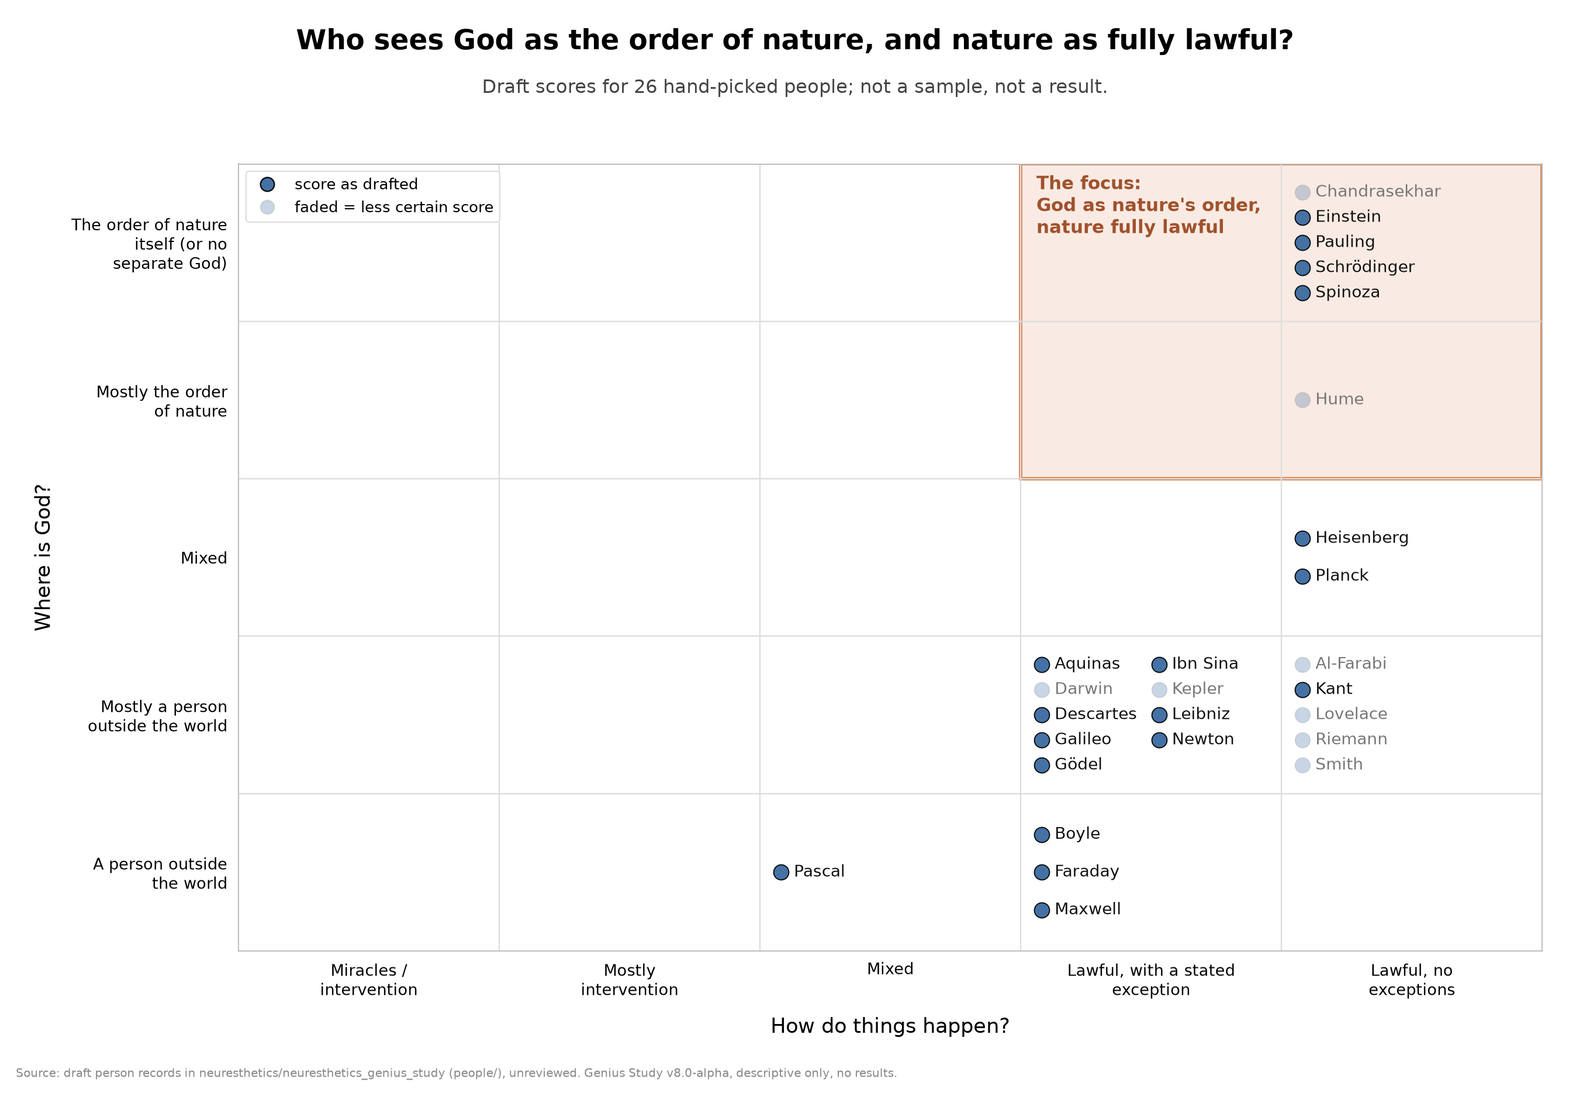
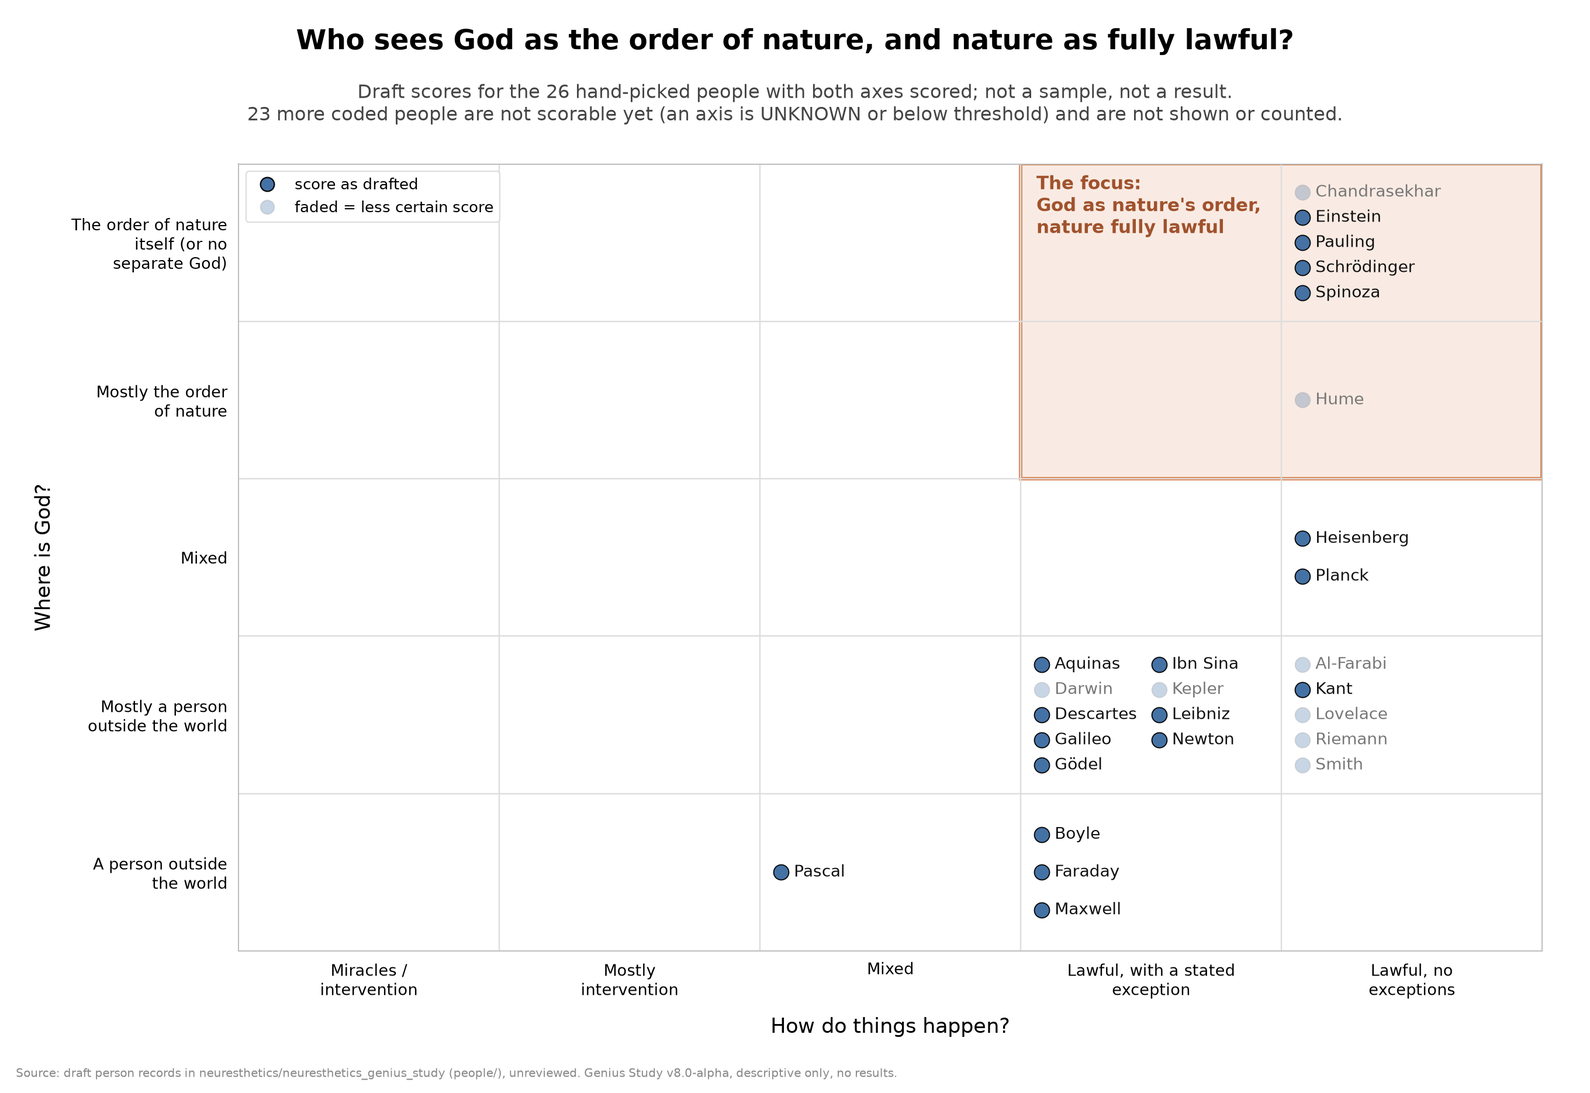
Leave unscorable people out of every chart denominator (P34, Jason)
The person chart caption and subtitle now count only people with both axes scored, the focus box is counted among people at certainty >= 0.7 on both axes, and the 23 not-scorable people are reported separately with which axis is missing.

Changed region(s): [[0.1562, 0.062, 0.8438, 0.1241]]

diff --git a/scripts/lib/records.py b/scripts/lib/records.py
@@ -1,5 +1,5 @@
 """Shared helpers for person and system records: front-matter parsing, schema checks, claim walking."""
-import csv, json, os, re
+import collections, csv, json, os, re
 
 import yaml
 from jsonschema import Draft202012Validator
@@ -185,23 +185,44 @@ def system_files():
 
 
 def people_axis_points():
-    """The person records that have both A_locus and B_cause scored (integers), for the person chart and its
-    README caption. Returns (points, n_files). Each point is a dict with name, A, B, their certainties and
-    interview flags, and mid_basin. Shared by scripts/make_figures.py and scripts/progress_status.py."""
-    pts, n = [], 0
+    """Split the person records for the person chart and its README caption.
+
+    Returns (points, not_scorable). points are the records with both A_locus and B_cause scored (integers);
+    they are the plotted base. not_scorable are the other records, each a dict with name and reason; they are
+    left out of every denominator and reported separately (DECIDED (Jason, 2026-10-08), OPEN_DECISIONS P34).
+    Each point is a dict with name, A, B, their certainties and interview flags, and mid_basin.
+    Shared by scripts/make_figures.py and scripts/progress_status.py."""
+    pts, out = [], []
     for f in person_files():
         d, _ = read_record(f)
-        n += 1
         lio = d["worldview"]["lio_axes"]
         a, b = lio["A_locus"], lio["B_cause"]
-        if not (isinstance(a.get("value"), int) and isinstance(b.get("value"), int)):
+        okA, okB = isinstance(a.get("value"), int), isinstance(b.get("value"), int)
+        if not (okA and okB):
+            reason = "both axes" if not (okA or okB) else ("A_locus" if not okA else "B_cause")
+            out.append({"name": d["identity"]["display_name"], "reason": reason,
+                        "A": a.get("value"), "B": b.get("value")})
             continue
         mb = d["worldview"].get("mid_basin") or {}
         pts.append({"name": d["identity"]["display_name"], "A": a["value"], "B": b["value"],
                     "cA": a.get("certainty"), "cB": b.get("certainty"),
                     "iA": is_interview(a), "iB": is_interview(b),
                     "mid_basin": mb.get("value") if isinstance(mb, dict) else mb})
-    return pts, n
+    return pts, out
+
+
+def not_scorable_summary(out):
+    """Plain-words breakdown of the people left out of the chart base, e.g.
+    '17 with no A_locus score, 3 with no B_cause score, 3 with neither'."""
+    c = collections.Counter(p["reason"] for p in out)
+    parts = []
+    if c["A_locus"]:
+        parts.append(f"{c['A_locus']} with no A_locus score")
+    if c["B_cause"]:
+        parts.append(f"{c['B_cause']} with no B_cause score")
+    if c["both axes"]:
+        parts.append(f"{c['both axes']} with neither")
+    return ", ".join(parts)
 
 
 # The region drawn on the person chart: the study focus, the LIO pole on both axes.
@@ -219,14 +240,18 @@ def firm(p):
 
 
 def focus_counts(pts):
-    """(firm, plotted) for the study-focus region: firm = both axes at certainty >= 0.7."""
-    ps = [p for p in pts if in_focus(p)]
-    return sum(1 for p in ps if firm(p)), len(ps)
+    """(in_box, base, faded_in_box). The base is the plotted people at certainty >= 0.7 on both axes; in_box
+    is those of them in the study-focus region. faded_in_box are plotted in the region below 0.7 on at least
+    one axis; they are outside the base and not counted."""
+    base = [p for p in pts if firm(p)]
+    return (sum(1 for p in base if in_focus(p)), len(base),
+            sum(1 for p in pts if in_focus(p) and not firm(p)))
 
 
 def people_chart_caption():
-    """README caption for figures/people_cause_locus.png, computed from the records."""
-    pts, n = people_axis_points()
+    """README caption for figures/people_cause_locus.png, computed from the records. Every count uses only the
+    people scorable for it; the rest are reported as not scorable yet (OPEN_DECISIONS P34)."""
+    pts, out = people_axis_points()
     bs = sorted({p["B"] for p in pts})
     if not bs:
         brange = "no person has both axes scored"
@@ -234,17 +259,22 @@ def people_chart_caption():
         brange = f"every plotted person is B_cause {bs[0]}"
     else:
         brange = ("every plotted person is B_cause " + ", ".join(map(str, bs[:-1])) + f" or {bs[-1]}")
-    ff, fn = focus_counts(pts)
+    fi, fb, ff = focus_counts(pts)
     # Left two columns are B_cause 0 and 1. Mention them only when the plotted records leave them empty.
     left = ""
     if pts and all(p["B"] >= 2 for p in pts):
-        left = (" Nobody coded so far scores in the left two columns "
+        left = (" Nobody plotted scores in the left two columns "
                 "(miracles or intervention, or mostly intervention).")
+    faded = (f" {ff} more {'is' if ff == 1 else 'are'} plotted in the box at lower certainty and "
+             f"{'is' if ff == 1 else 'are'} not counted.") if ff else ""
+    ns = (f" **Not scorable yet:** {len(out)} coded {'person lacks' if len(out) == 1 else 'people lack'} a score on "
+          f"at least one axis ({not_scorable_summary(out)}; the value is UNKNOWN or BELOW_THRESHOLD). They are not "
+          f"plotted and are left out of every count here, not counted as outside the box.") if out else ""
     return (f"*Draft person scores: where God is (up the chart) against how things happen (across the chart). "
             f"The shaded top-right box is the only region marked: the study focus, God as the order of nature "
-            f"and nature as lawful (A_locus ≥ 3 and B_cause ≥ 3). {ff} people are in it at certainty "
-            f"≥ 0.7 on both axes ({fn} plotted there). Only records with both axes scored are plotted "
-            f"({len(pts)} of the {n} coded people); {brange}.{left} These are unreviewed, hand-picked drafts, "
+            f"and nature as lawful (A_locus ≥ 3 and B_cause ≥ 3). Plotted: the {len(pts)} coded people with both "
+            f"axes scored; {brange}.{left} Focus count: {fi} of the {fb} people scored at certainty ≥ 0.7 on both "
+            f"axes are in the box (the base is those {fb}).{faded}{ns} These are unreviewed, hand-picked drafts, "
             f"not a sample, and there is no base rate, so no over- or under-representation claim can be made "
             f"from them. Each surname sits next to its dot. A faded dot is a less certain score "
             f"(below 0.7 on at least one axis).*")

diff --git a/scripts/make_figures.py b/scripts/make_figures.py
@@ -157,7 +157,7 @@ def fig_people_cause_locus(out):
     def short(name):
         return short_names.get(name, name.split()[-1])
 
-    pts, _ = people_axis_points()
+    pts, not_scorable = people_axis_points()
     cells = collections.defaultdict(list)
     for p in pts:
         cells[(p["B"], p["A"])].append(p)
@@ -206,8 +206,10 @@ def fig_people_cause_locus(out):
 
     fig.text(0.5, 0.955, "Who sees God as the order of nature, and nature as fully lawful?",
              ha="center", fontsize=20, fontweight="bold")
-    fig.text(0.5, 0.915, f"Draft scores for {len(pts)} hand-picked people; not a sample, not a result.",
-             ha="center", fontsize=13.5, color="#444444")
+    fig.text(0.5, 0.925, f"Draft scores for the {len(pts)} hand-picked people with both axes scored; not a sample, not a result."
+             + (f"\n{len(not_scorable)} more coded people are not scorable yet (an axis is UNKNOWN or below threshold) "
+                "and are not shown or counted." if not_scorable else ""),
+             ha="center", va="top", fontsize=13.5, color="#444444")
     leg = [Line2D([0], [0], marker="o", ls="", markersize=10, markerfacecolor=dot, markeredgecolor="black", alpha=0.95),
            Line2D([0], [0], marker="o", ls="", markersize=10, markerfacecolor=dot, markeredgecolor="#999999", alpha=0.28)]
     ax.legend(leg, ["score as drafted", "faded = less certain score"], loc="upper left", fontsize=11,

diff --git a/docs/OPEN_DECISIONS.md b/docs/OPEN_DECISIONS.md
@@ -59,13 +59,14 @@ The 19 recommendations below were decided on 2026-10-01; P6 and P7, added later,
 | P31 | Continuity rule: the span dates the worldview being coded; evidence from any adult year counts at its normal certainty unless changes_over_life documents a change of view between the span and the evidence (then retrospective cap or changes_over_life); a change inside the span: code the phase with the most listed lasting contributions (tie to the later), the other phase in changes_over_life plus a coder_notes delta; childhood evidence stays off-point; replaces P29's out-of-span clause and P30 addendum e's posthumous restriction; a change splits the span only if it bears on primary_system or A–E (Newton ruling), phases counted with P30 #1 dates | medium-high | DECIDED (v8's pick) 2026-10-02 (from the P30 span-alignment audit) |
 | P32 | Work order after the first 12 stage 3 records: finish the stage 2 leftovers (physical science 1600–1950, F ≥ 3), then everyone else with F ≥ 3 by F descending, then roster rank; no hand-picking | medium-high | DECIDED (v8's pick) 2026-10-08 (stage 3 batch C) |
 | P33 | Inventors and the scientist test (P30): a device or invention is not a theory or result about physical or natural systems; an inventor is a scientist only if a listed lasting contribution is a theory or result, otherwise B needs a statement about nature (P16) | medium | DECIDED (v8's pick) 2026-10-08 (stage 3 batch C, Bell) |
+| P34 | Denominators: people who can't be scored for an analysis are excluded from its denominator and reported separately as not scorable | high | DECIDED (Jason) 2026-10-08 |
 | S7 | System backlog: ATHE, AGNOS, IDEAL first; French spiritualism listed as a system to consider, no file | medium-high | decided 2026-10-02, v8's pick (added by the people run, batch 3) |
 
 **Decided 2026-10-01:** R1, R2, R3, R4, R5 and S2 were approved together as recommended. The other 13 were decided later the same day (10:55 PM PT): R6 with all 9 names core, Vint Cerf included; R7 with the six fixes; the rest as recommended. For P4, deists pass the test, and this is recorded as a stated consequence with no exclusion. Each item is under "Decided" with what changed.
 
 ## Open
 
-None. P8–P31 and S7 were decided on 2026-10-02, and P32–P33 on 2026-10-08; all are listed under "Decided".
+None. P8–P31 and S7 were decided on 2026-10-02, and P32–P34 on 2026-10-08; all are listed under "Decided".
 
 
 ## Decided
@@ -714,6 +715,14 @@ Process:
 - **Rule.** A device or invention is not a theory or result about physical or natural systems. An inventor counts as a scientist only if a listed lasting contribution is itself a theory or result. Otherwise B needs a statement of the person's own about nature (P16), as for any non-scientist.
 - **Why.** Building a working device shows the builder relied on regularities, but it does not state a view of nature's order, and nearly everyone relies on regularities. Counting devices would let B be scored from almost any practical work.
 - **Applied to:** Bell (telephone, photophone, graphophone): not a scientist; no statement about nature was found, so B is UNKNOWN. Lovelace (Notes on the Analytical Engine) is treated the same way. Effect: B for inventors is scored less often.
+
+### P34. Denominators: unscorable people are left out
+**DECIDED (Jason, 2026-10-08): people who can't be scored for an analysis are excluded from its denominator and reported separately as not scorable.**
+- **What counts as not scorable.** For the person chart: A_locus or B_cause is not a 0–4 score (`TODO`, `UNKNOWN` or `BELOW_THRESHOLD`). For any other test or share: a field the test needs is not scored. Such a person is not inside the analysis at all, so they are not counted as outside the focus box, or as failing the test.
+- **Focus count.** The focus box (A_locus ≥ 3 and B_cause ≥ 3) is counted only among people at certainty ≥ 0.7 on both axes, and the base is stated as those people. People plotted in the box at lower certainty are named as a separate number, not counted.
+- **Reporting.** The not-scorable people are given as a plain count, with which axis is missing, so they are visible and not hidden.
+- **Not an analysis.** Coding progress against the roster (e.g. people coded of core) and claim fill rates in reports/coverage.md are coverage figures, so they keep the full roster or claim count as the base.
+- **Where it is applied.** `people_axis_points`, `focus_counts` and `people_chart_caption` in `scripts/lib/records.py`, used by `scripts/make_figures.py` and `scripts/progress_status.py`.
 
 ### S1. CLTHEI display label
 **Decided 2026-10-01 by Jason (approved as recommended):** CLTHEI `display_label` is "Interventionist personal theism", `label_status` `approved`. The code and `v7_1_label` are unchanged.

diff --git a/README.md b/README.md
@@ -20,7 +20,7 @@ A study of where remembered genius sits on a scale of lawful, non-intervening or
 | Roster people | 1,380: 441 core, 33 provisional, 17 review, 889 new names still need a status |
 | People coded (of core) | 49 / 441 (draft, unreviewed) |
 | Belief systems sourced | 9 / 77 (the rest are stubs) |
-| Decisions settled | 48 / 48 |
+| Decisions settled | 49 / 49 |
 | Audits | 9 blind lens runs on four batches: 3 on a 115-claim packet (eff4700), 2 on a 147-claim packet (e648145), 2 on a 124-claim packet (d9903b7/43cecc4; fixes at 6f37cd6) and 2 on a 165-claim packet (b21655b; run 1 155 hold / 10 weaken, run 2 160 hold / 5 weaken, 0 wrong; agreement 156/165, κ 0.37; fixes applied at 3bcd59c); see [reports/audit_2026-10-02.md](reports/audit_2026-10-02.md). Stage 3: 4 blind runs on the first 12 records (stage 3-a: 561 claims at 59a8371; stage 3-b: 420 claims at 3db6511); their method rulings are decisions P14–P28; one blind run on the stage 3-b rulings (93 claims at 6155174: 88 hold, 4 weaken, 1 fail, fixed at 4c10399) gave P29; lens's runs on the v8.a rulings packet (34a73c4) and the v8.b P29 packet (e930597) gave P30; the P30 span-alignment audit (7a52a3f) gave P31 |
 | Latest tag | `v8.0-alpha` (prerelease) |
 | Next steps | Stage 3 (everyone else with F ≥ 3) has started: the first 12 records (Spinoza, Descartes, Pascal, Leibniz, Kant, Hume, Darwin, Gauss, Riemann, Turing, Noether, von Neumann) are drafts that still need to apply P29 and P30 (the stage 3-b six follow P14–P28 on main; the stage 3-a six also still need P14–P28); the other 31 records follow P14–P28 (schema 1.3) and P30's age rule, and their worldview.working_years now equals timing.major_work_period (P30 addendum); under P31 (continuity rule) all 55 values the span audit flagged stand; the strict-period alternative is in reports/period_rule_sensitivity.md; batch C (Wu, Lovelace, Smith, al-Farabi, al-Khwarizmi, Bell) is drafted in P32 order, next Archimedes, Aristotle, McClintock, Russell; batch C needs a blind lens run; source the stubs on the S7 backlog (ATHE, AGNOS, KANT, SCEPT, RATN, EMPIR, IDEAL); the revised rubric has not started |
@@ -44,7 +44,7 @@ These charts describe what is in the repo so far; they are not results. The rost
 ![Draft person scores: where God is against how things happen, with only the top-right study focus shaded](figures/people_cause_locus.png)
 
 <!-- BEGIN GENERATED: people_chart_caption -->
-*Draft person scores: where God is (up the chart) against how things happen (across the chart). The shaded top-right box is the only region marked: the study focus, God as the order of nature and nature as lawful (A_locus ≥ 3 and B_cause ≥ 3). 4 people are in it at certainty ≥ 0.7 on both axes (6 plotted there). Only records with both axes scored are plotted (26 of the 49 coded people); every plotted person is B_cause 2, 3 or 4. Nobody coded so far scores in the left two columns (miracles or intervention, or mostly intervention). These are unreviewed, hand-picked drafts, not a sample, and there is no base rate, so no over- or under-representation claim can be made from them. Each surname sits next to its dot. A faded dot is a less certain score (below 0.7 on at least one axis).*
+*Draft person scores: where God is (up the chart) against how things happen (across the chart). The shaded top-right box is the only region marked: the study focus, God as the order of nature and nature as lawful (A_locus ≥ 3 and B_cause ≥ 3). Plotted: the 26 coded people with both axes scored; every plotted person is B_cause 2, 3 or 4. Nobody plotted scores in the left two columns (miracles or intervention, or mostly intervention). Focus count: 4 of the 18 people scored at certainty ≥ 0.7 on both axes are in the box (the base is those 18). 2 more are plotted in the box at lower certainty and are not counted. **Not scorable yet:** 23 coded people lack a score on at least one axis (17 with no A_locus score, 2 with no B_cause score, 4 with neither; the value is UNKNOWN or BELOW_THRESHOLD). They are not plotted and are left out of every count here, not counted as outside the box. These are unreviewed, hand-picked drafts, not a sample, and there is no base rate, so no over- or under-representation claim can be made from them. Each surname sits next to its dot. A faded dot is a less certain score (below 0.7 on at least one axis).*
 <!-- END GENERATED: people_chart_caption -->
 
 ![The nine sourced belief-system drafts on the v8 LIO axes](figures/systems_axes.png)

diff --git a/docs/METHOD.md b/docs/METHOD.md
@@ -20,6 +20,7 @@ The study has two lanes, carried over from v7.1:
 - **Mid-basin (P4).** v7.1 names "mid-basin theists" and a first pool (Faraday, Maxwell, Newton, Aquinas, Ibn Sina, Gödel) but gives no membership test. v8's test uses the axis scores only. `mid_basin` is true when A_locus ≤ 1 (God is a transcendent person, not the world) and B_cause ≥ 3 (law and regularity, no special cases), with B scored on the person's account of nature (decision P6, 2026-10-02; B needs a statement about nature or the physical world, so pure-mathematics Platonism alone gives `BELOW_THRESHOLD`, P16; a scientist, meaning anyone with a listed lasting contribution that is a theory or result about physical or natural systems, can be scored on working science at 0.5, P24 and P30) and both at certainty ≥ 0.7. When the value and every named alternative meet the condition (B 3 with alternative B 4), the certainty used is that of the evidence for the condition, not of the exact value (P30). It is false when A_locus ≥ 3, or A_locus ≤ 1 with B_cause ≤ 1. Otherwise: `TODO` with a note if a needed axis is still `TODO`, or if both axes are scored at certainty ≥ 0.7 but the result falls between the branches (A_locus = 2, or A_locus ≤ 1 with B_cause = 2), since the test has no branch for it; `UNKNOWN` if any needed axis is `UNKNOWN` (the sources read say nothing on it; this takes precedence, P19); otherwise `BELOW_THRESHOLD` if a needed axis is `BELOW_THRESHOLD` or is scored only at 0.5, under the test's 0.7 bar (say which in the note). For a theologian or philosopher, miracles and grace count against B only where they reach into their account of the natural order; a theology-wide reading, if different, is recorded in the B rationale. "First-rank" is applied separately, as F ≥ 3. v7.1's "certainty ≥ 0.6" means ≥ 0.7 on a scale of 1.0 / 0.7 / 0.5.
   - **Stated consequence: deists pass.** A deist God is a transcendent person (A low) who does not intervene (B high), so DEISM people will usually test `true`. This follows from the test as decided. There is no exclusion for them: under the test they count as mid-basin theists.
   - The test comes from the v7.1 passages that describe these theists: "Faraday and Maxwell are devout and lawful", "Classical theism can sit mid-to-high on lawfulness without identity of God and world", and "lawful form early, even if the word God stayed". Every use of the term is quoted under P4 in OPEN_DECISIONS.
+- **Denominators (P34, Jason, 2026-10-08).** People who can't be scored for an analysis are excluded from its denominator and reported separately as not scorable. For the person chart, that means anyone whose A_locus or B_cause is `TODO`, `UNKNOWN` or `BELOW_THRESHOLD`; the focus box is counted only among people at certainty ≥ 0.7 on both axes, and that is the stated base. Coverage figures (people coded of the roster, claim fill rates) keep the full base.
 - **Review (P5).** Only a named human reviewer sets `review_status: reviewed`, with `reviewed_by` and `reviewed_on`. Agents set `draft — unreviewed` or `example — unreviewed` only, and the validators require the reviewer fields.
 
 ## 2. The roster

diff --git a/docs/CODING_GUIDE.md b/docs/CODING_GUIDE.md
@@ -21,7 +21,7 @@ From the v7.1 data book, section 5 "Coding rules" (`tables[3]` in the combined J
 | Multiple systems | Primary = dominant working metaphysics. Secondary only if they published in two systems. |
 | Founders | Code the system they founded (Buddha → BUDDH) even if later scholastic versions diverge. |
 | Scientists with church membership | Church tax / baptism ≠ ideology. Need writings. Faraday and Maxwell pass; many 19th-c names will be CHRIST-nominal / AGNOS-working. |
-| Do not code yet | Anyone with certainty <0.5 stays in the roster but drops out of the ideology×rate table. |
+| Do not code yet | Anyone with certainty <0.5 stays in the roster but drops out of the ideology×rate table, and out of the denominator of any analysis that needs that field; it is reported as not scorable (P34). |
 | Frequency cut | Primary LIO composition on frequency ≥ 3; sensitivity on ≥ 4 and ≥ 2. Frequency 1 stays on roster, out of primary table. |
 | First pool | Physical science 1600–1950; mid-basin theists coded first (Faraday, Maxwell, Newton, Aquinas, Ibn Sina, Gödel). |
 | No G/P_2025 | No present-day religion stock as a denominator. |
@@ -78,7 +78,7 @@ Every filled claim carries one of three certainty values. Anything below 0.5 is 
 | 0.7 | `recorded_interview` | The person's own first-person words in a recorded or transcribed interview (decision P8; see §7). |
 | 0.5 | `scholarly_reconstruction` | A scholar's reconstruction from indirect evidence. |
 | 0.5 | `inference_from_work` | Inferred from the person's work or conduct, with no direct statement (decision P24): for example B 4 from a scientist's working science. Say in `how_known` what it is inferred from. |
-| <0.5 | value = `BELOW_THRESHOLD` | Leave the value blank. The person drops out of the ideology × rate table. |
+| <0.5 | value = `BELOW_THRESHOLD` | Leave the value blank. The person drops out of the ideology × rate table and of the denominator of any analysis that needs the field (reported as not scorable, P34). |
 
 A single private letter is not "consistent private letters". Use 0.5 if a scholar backs the reading. Otherwise use `BELOW_THRESHOLD`. The kind of text does not change this table (decision P18): an unpublished or private document (a manuscript, notebook, prayer or form in the person's hand) takes the private ceiling, 0.7 with more than one document; a published letter or an autobiography the person published counts as `written_profession` (§7).
 
